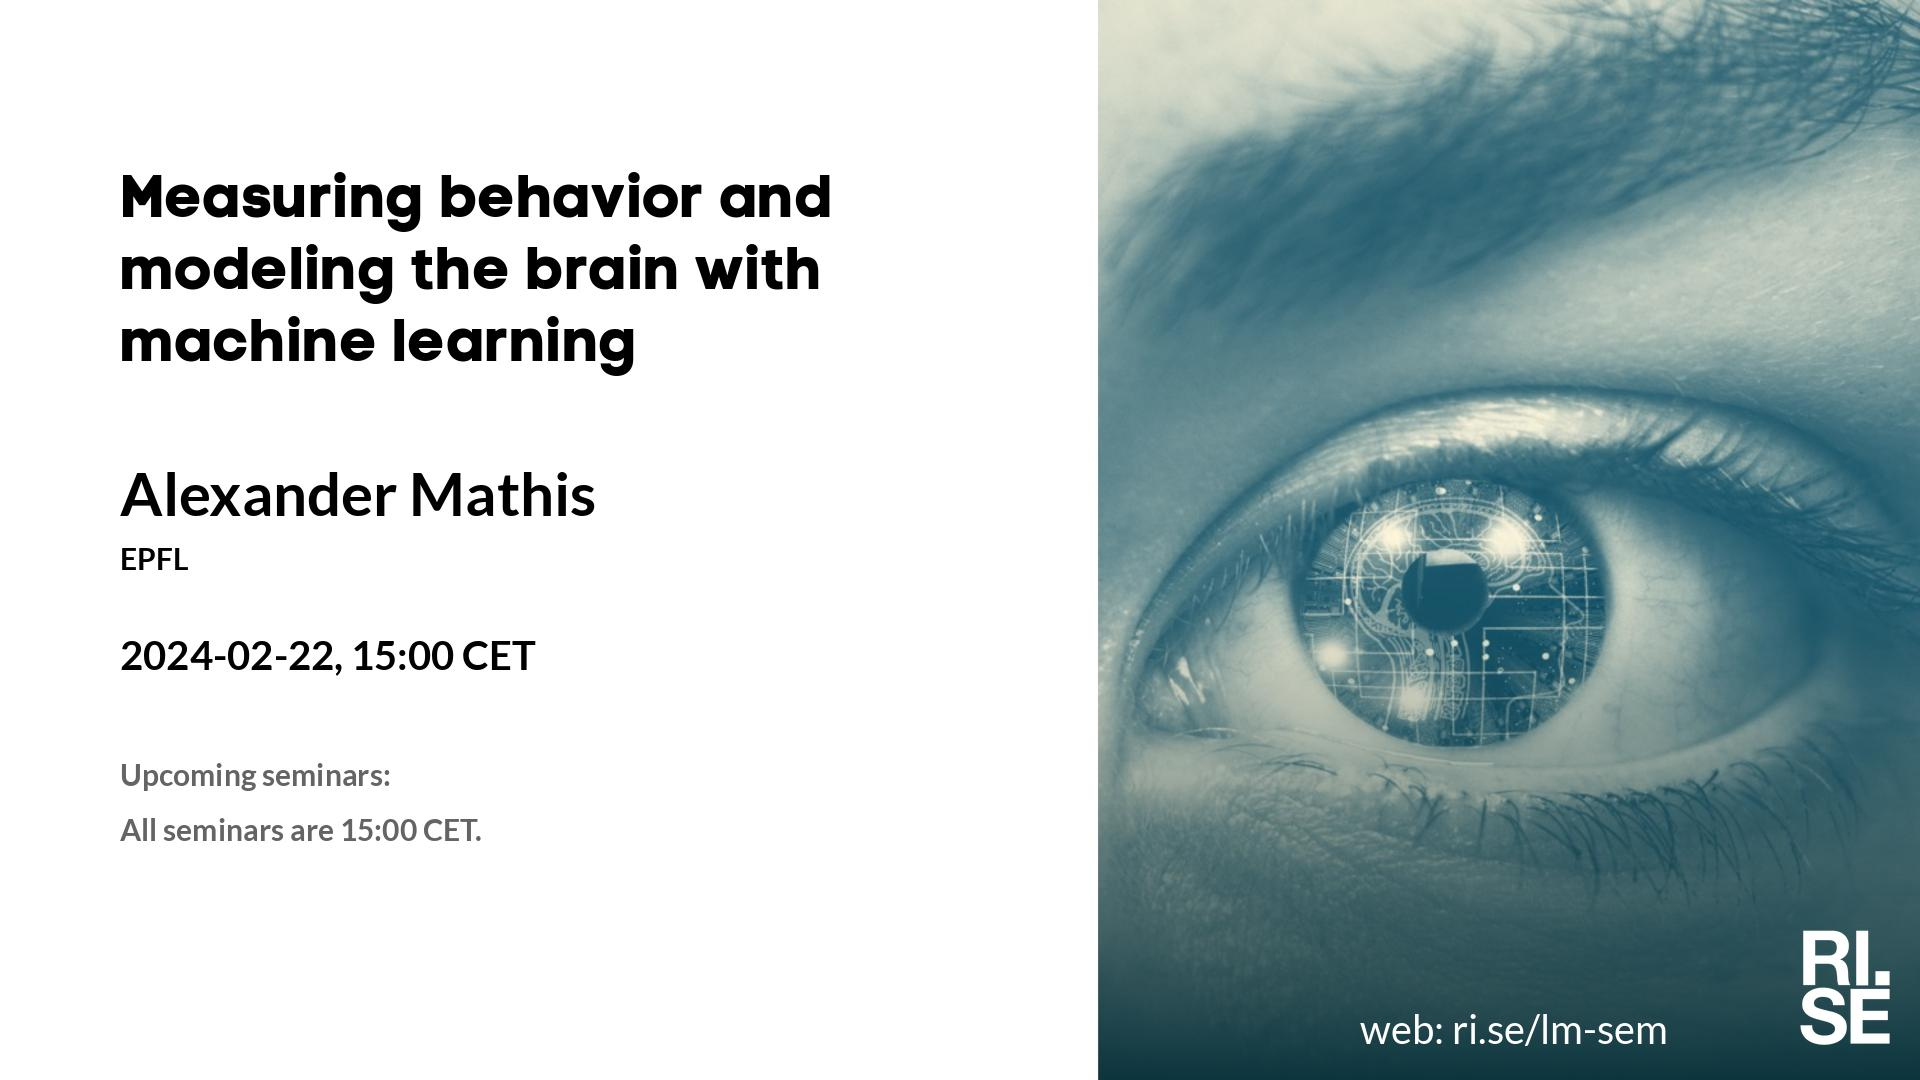
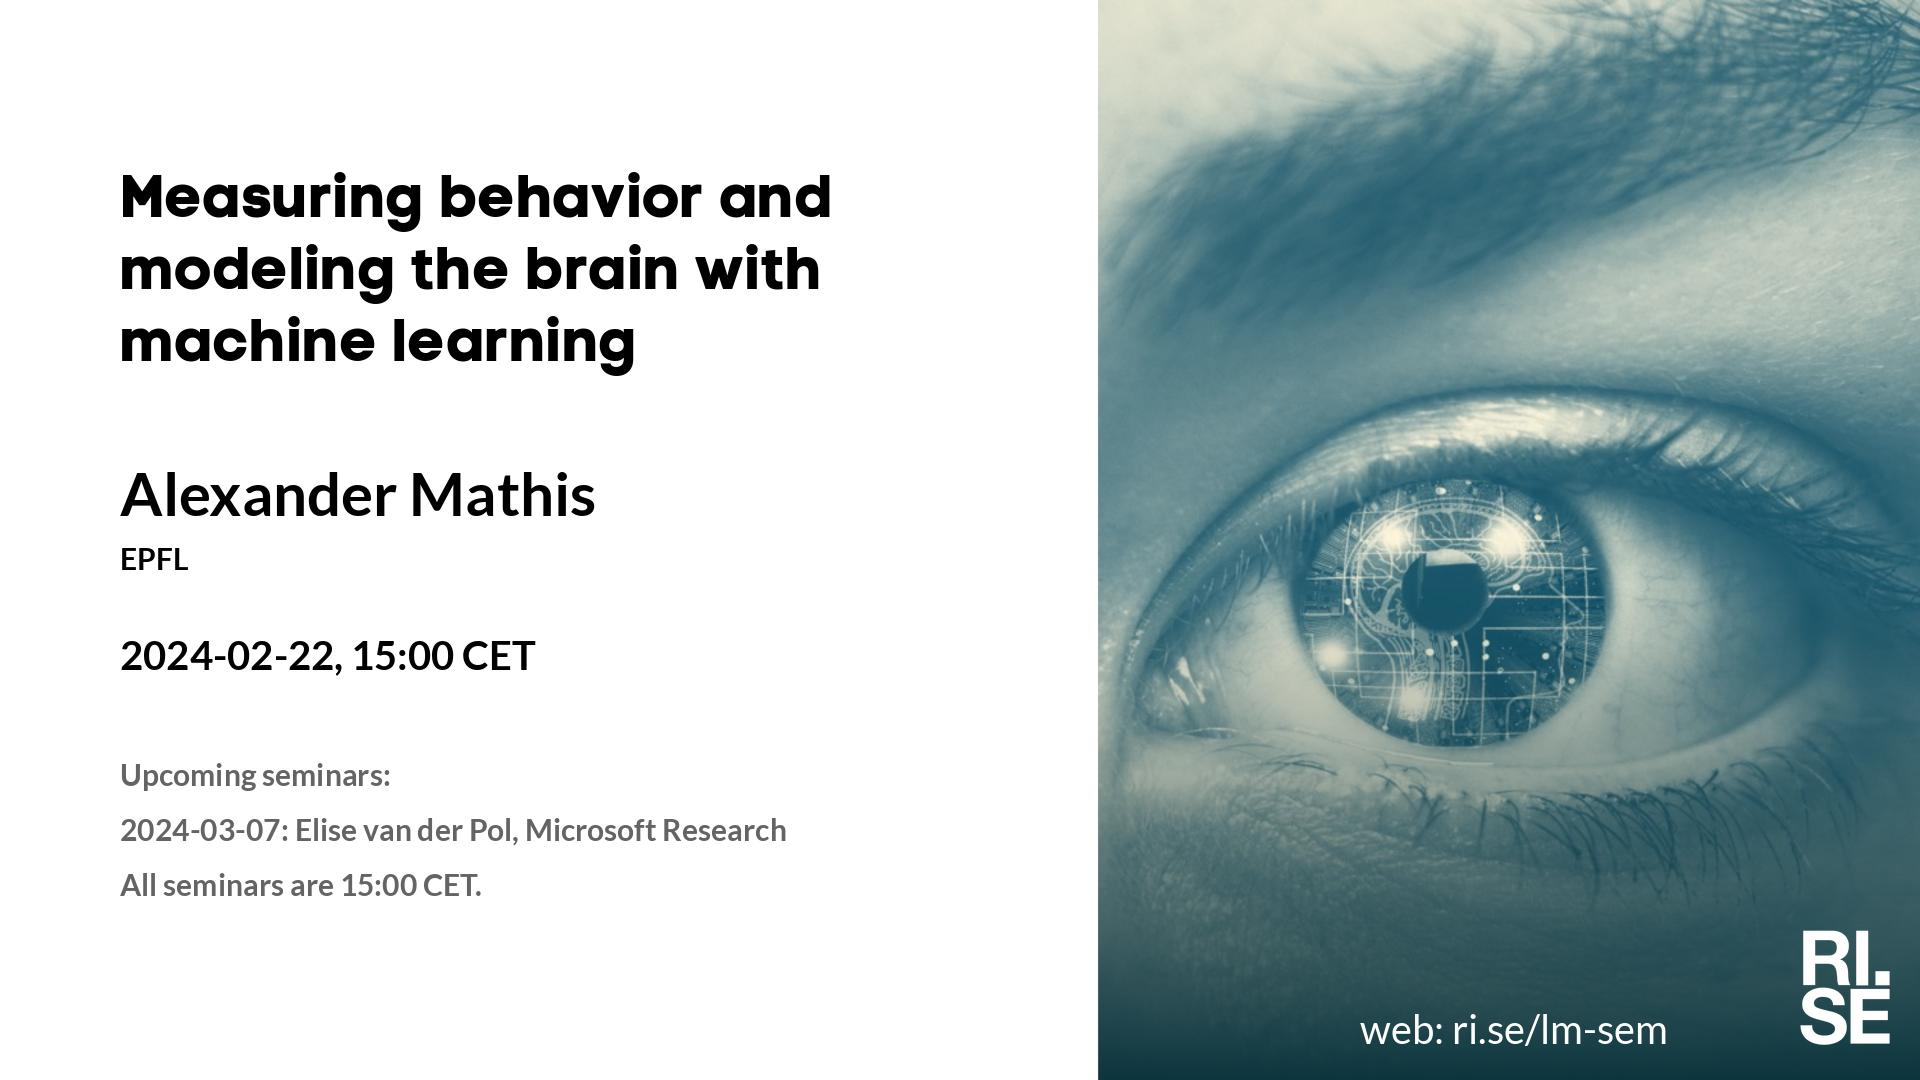
Updated plan on web site.

Changed region(s): [[0.0625, 0.7333, 0.4062, 0.825]]

diff --git a/lm/index.md b/lm/index.md
@@ -5,7 +5,7 @@ metatags: "<meta name=\"robots\" content=\"noindex,nofollow\" />"
 <style type="text/css" scoped>
 td, th {border: 1px solid #ccc; padding: 0.6em;}
 table {border-collapse: collapse;}
-</style># Learning Machines Plan 2023-10-26
+</style># Learning Machines Plan 2023-10-30
 
 | date | speaker                                   | photo | shareable | meeting backdrop | youtube thumbnail | <a title="Speaker, Title, Abstract, Bio, Photo. Strikethrough means we don't have it yet.">comment</a>        |
 | ---- | ----------------------------------------- | ----- | ----- | ----- | ----- | -------------- |
@@ -27,7 +27,7 @@ table {border-collapse: collapse;}
 | <span style="color:red"> 2024-02-15 </span> | <span style="color:red"> Sportlov </span> | <span style="color:red">  </span> | <span style="color:red">  </span> | <span style="color:red">  </span> | <span style="color:red">  </span> | <span style="color:red"> CANCELLED </span> |
 |  2024-02-22  |  [Alexander Mathis, EPFL](2024-02-22.md)  |    |  [social media ](social-media-alexander-mathis.jpg)  |  [meeting backdrop ](meeting-backdrop-alexander-mathis.jpg)  |  [youtube thumbnail ](youtube-thumbnail-alexander-mathis.jpg)  |  STAB~~P~~  |
 | <span style="color:red"> 2024-02-29 </span> | <span style="color:red"> Sportlov </span> | <span style="color:red">  </span> | <span style="color:red">  </span> | <span style="color:red">  </span> | <span style="color:red">  </span> | <span style="color:red"> CANCELLED </span> |
-| <span style="color:purple"> 2024-03-07 </span> | <span style="color:purple"> *Up for grabs!!!* </span> | <span style="color:purple">  </span> | <span style="color:purple">  </span> | <span style="color:purple">  </span> | <span style="color:purple">  </span> | <span style="color:purple"> ~~STABP~~ </span> |
+|  2024-03-07  |  [Elise van der Pol, Microsoft Research](2024-03-07.md)  |    |  [social media ](social-media-elise-van-der-pol.jpg)  |  [meeting backdrop ](meeting-backdrop-elise-van-der-pol.jpg)  |  [youtube thumbnail ](youtube-thumbnail-elise-van-der-pol.jpg)  |  S~~TABP~~  |
 | <span style="color:purple"> 2024-03-14 </span> | <span style="color:purple"> *Up for grabs!!!* </span> | <span style="color:purple">  </span> | <span style="color:purple">  </span> | <span style="color:purple">  </span> | <span style="color:purple">  </span> | <span style="color:purple"> ~~STABP~~ </span> |
 | <span style="color:purple"> 2024-03-21 </span> | <span style="color:purple"> *Up for grabs!!!* </span> | <span style="color:purple">  </span> | <span style="color:purple">  </span> | <span style="color:purple">  </span> | <span style="color:purple">  </span> | <span style="color:purple"> ~~STABP~~ </span> |
 | <span style="color:purple"> 2024-03-28 </span> | <span style="color:purple"> *Up for grabs!!!* </span> | <span style="color:purple">  </span> | <span style="color:purple">  </span> | <span style="color:purple">  </span> | <span style="color:purple">  </span> | <span style="color:purple"> ~~STABP~~ </span> |

diff --git a/lm/2024-03-07.md b/lm/2024-03-07.md
@@ -1,0 +1,28 @@
+---
+layout: default
+metatags: "<meta name=\"robots\" content=\"noindex,nofollow\" />"
+---
+Welcome to this week's Learning Machines seminar.
+
+**Title:** N/A
+
+**Speaker:** Elise van der Pol, Microsoft Research
+
+**Abstract:** N/A
+
+**About the speaker:** N/A
+
+**Location:** This is an online seminar. Connect using Zoom.
+
+**Date:** 2024-03-07 15:00
+
+**Zoom link:** [https://rise.zoom.us/j/208117140](https://rise.zoom.us/j/208117140)
+
+**Upcoming seminars:**
+
+* All seminars are 15:00 CET.
+
+More information and coming seminars: [https://ri.se/lm-sem](https://ri.se/lm-sem)
+
+-- The Learning Machines Team
+

diff --git a/lm/2024-02-22.md b/lm/2024-02-22.md
@@ -20,6 +20,7 @@ Welcome to this week's Learning Machines seminar.
 
 **Upcoming seminars:**
 
+* 2024-03-07: Elise van der Pol, Microsoft Research
 * All seminars are 15:00 CET.
 
 More information and coming seminars: [https://ri.se/lm-sem](https://ri.se/lm-sem)
